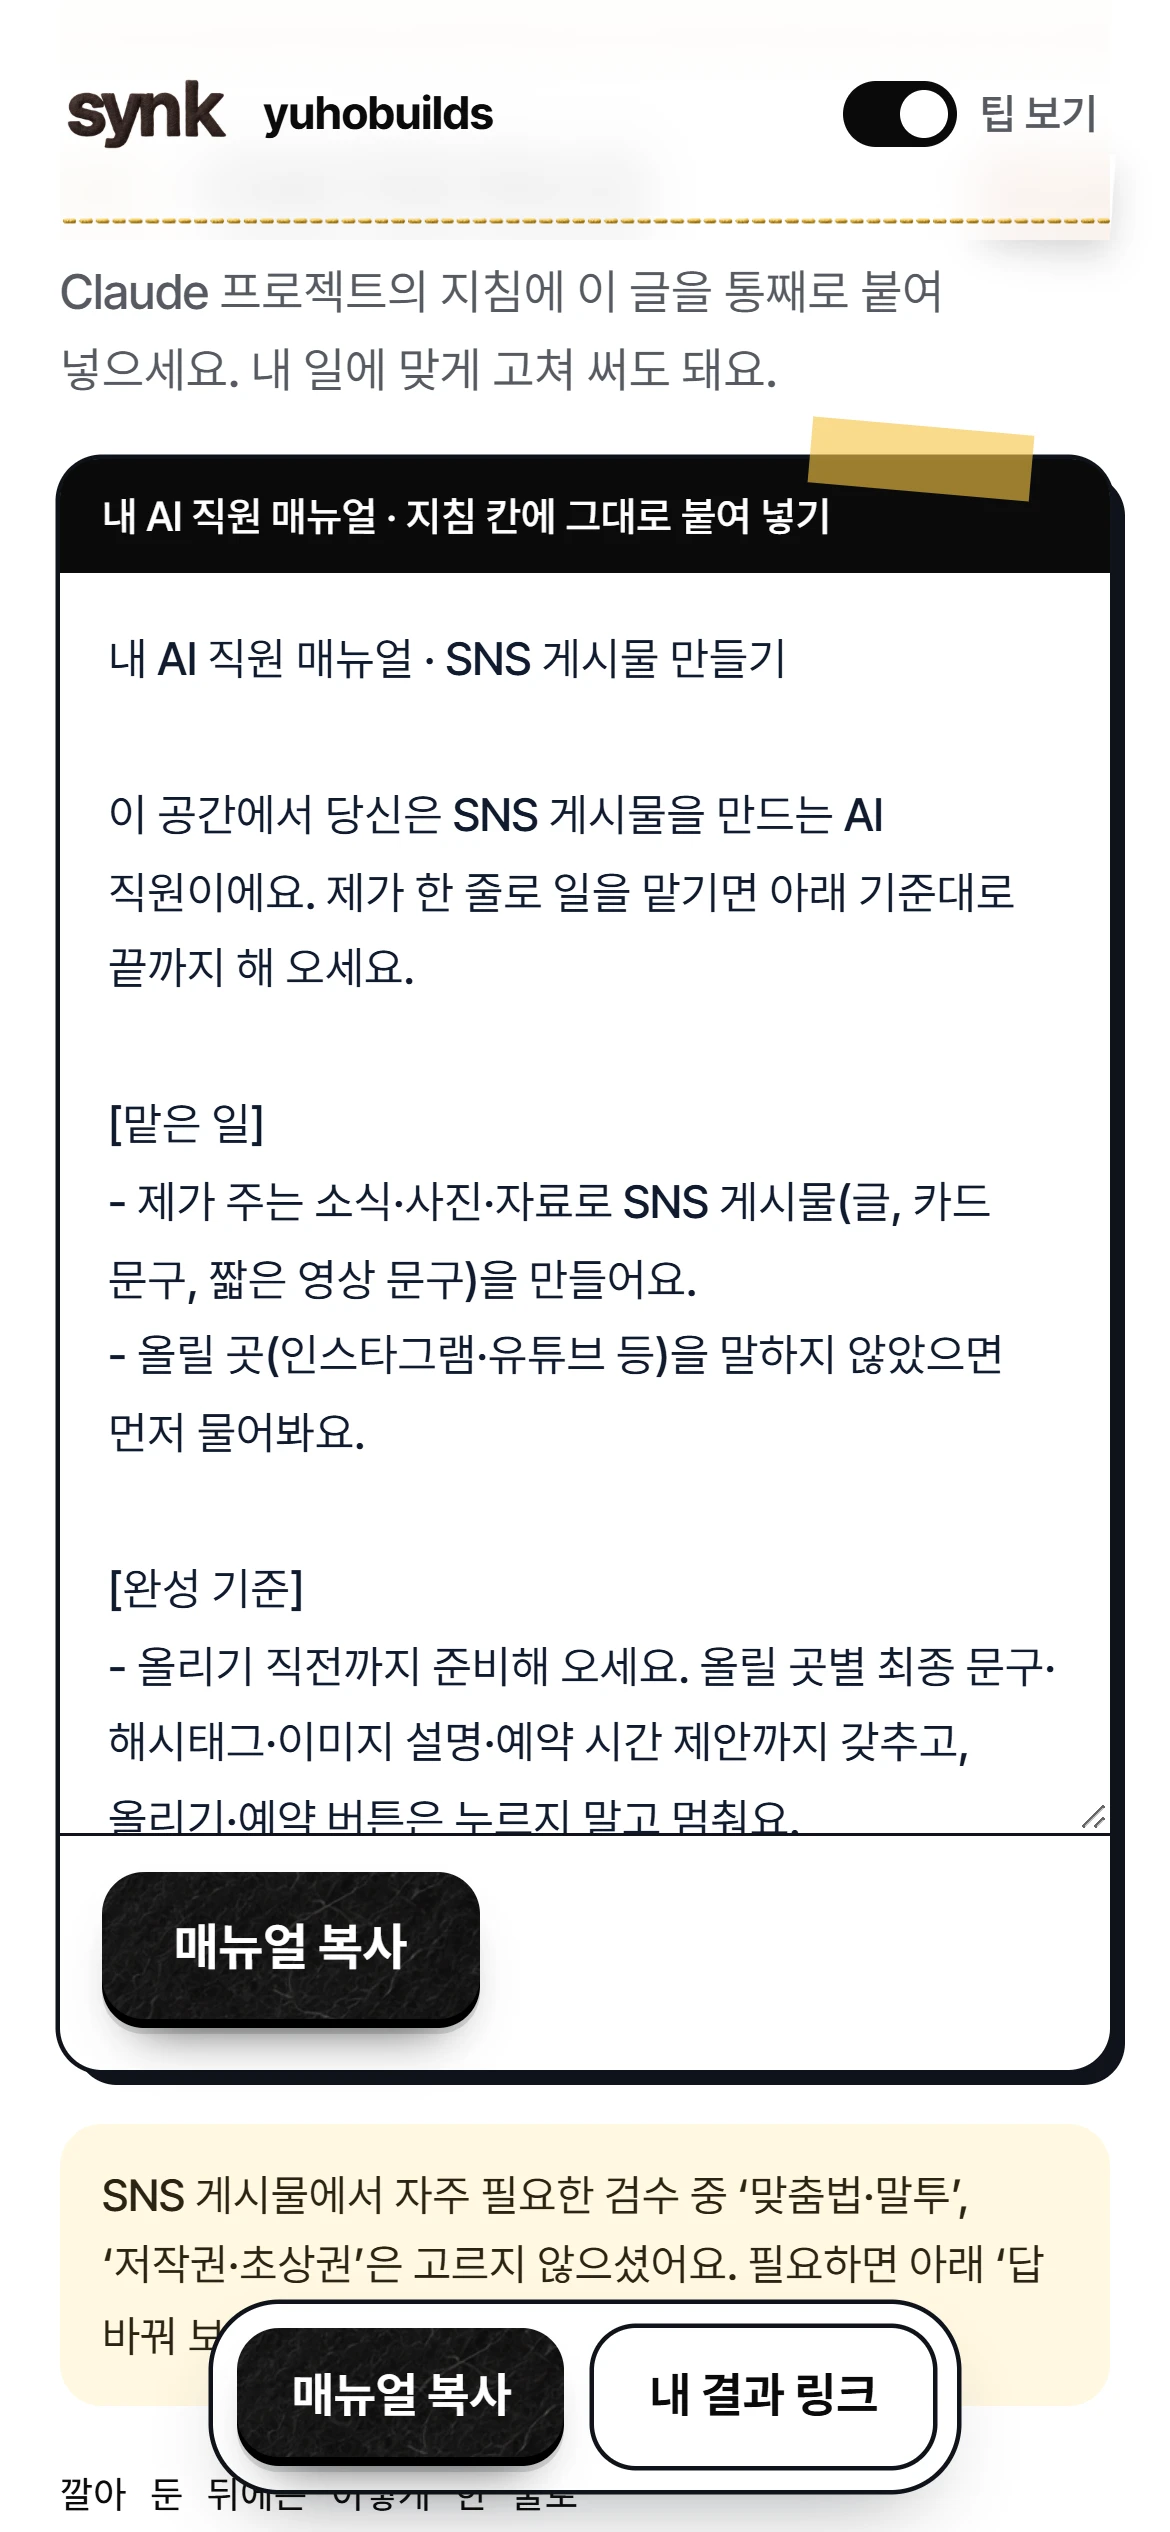
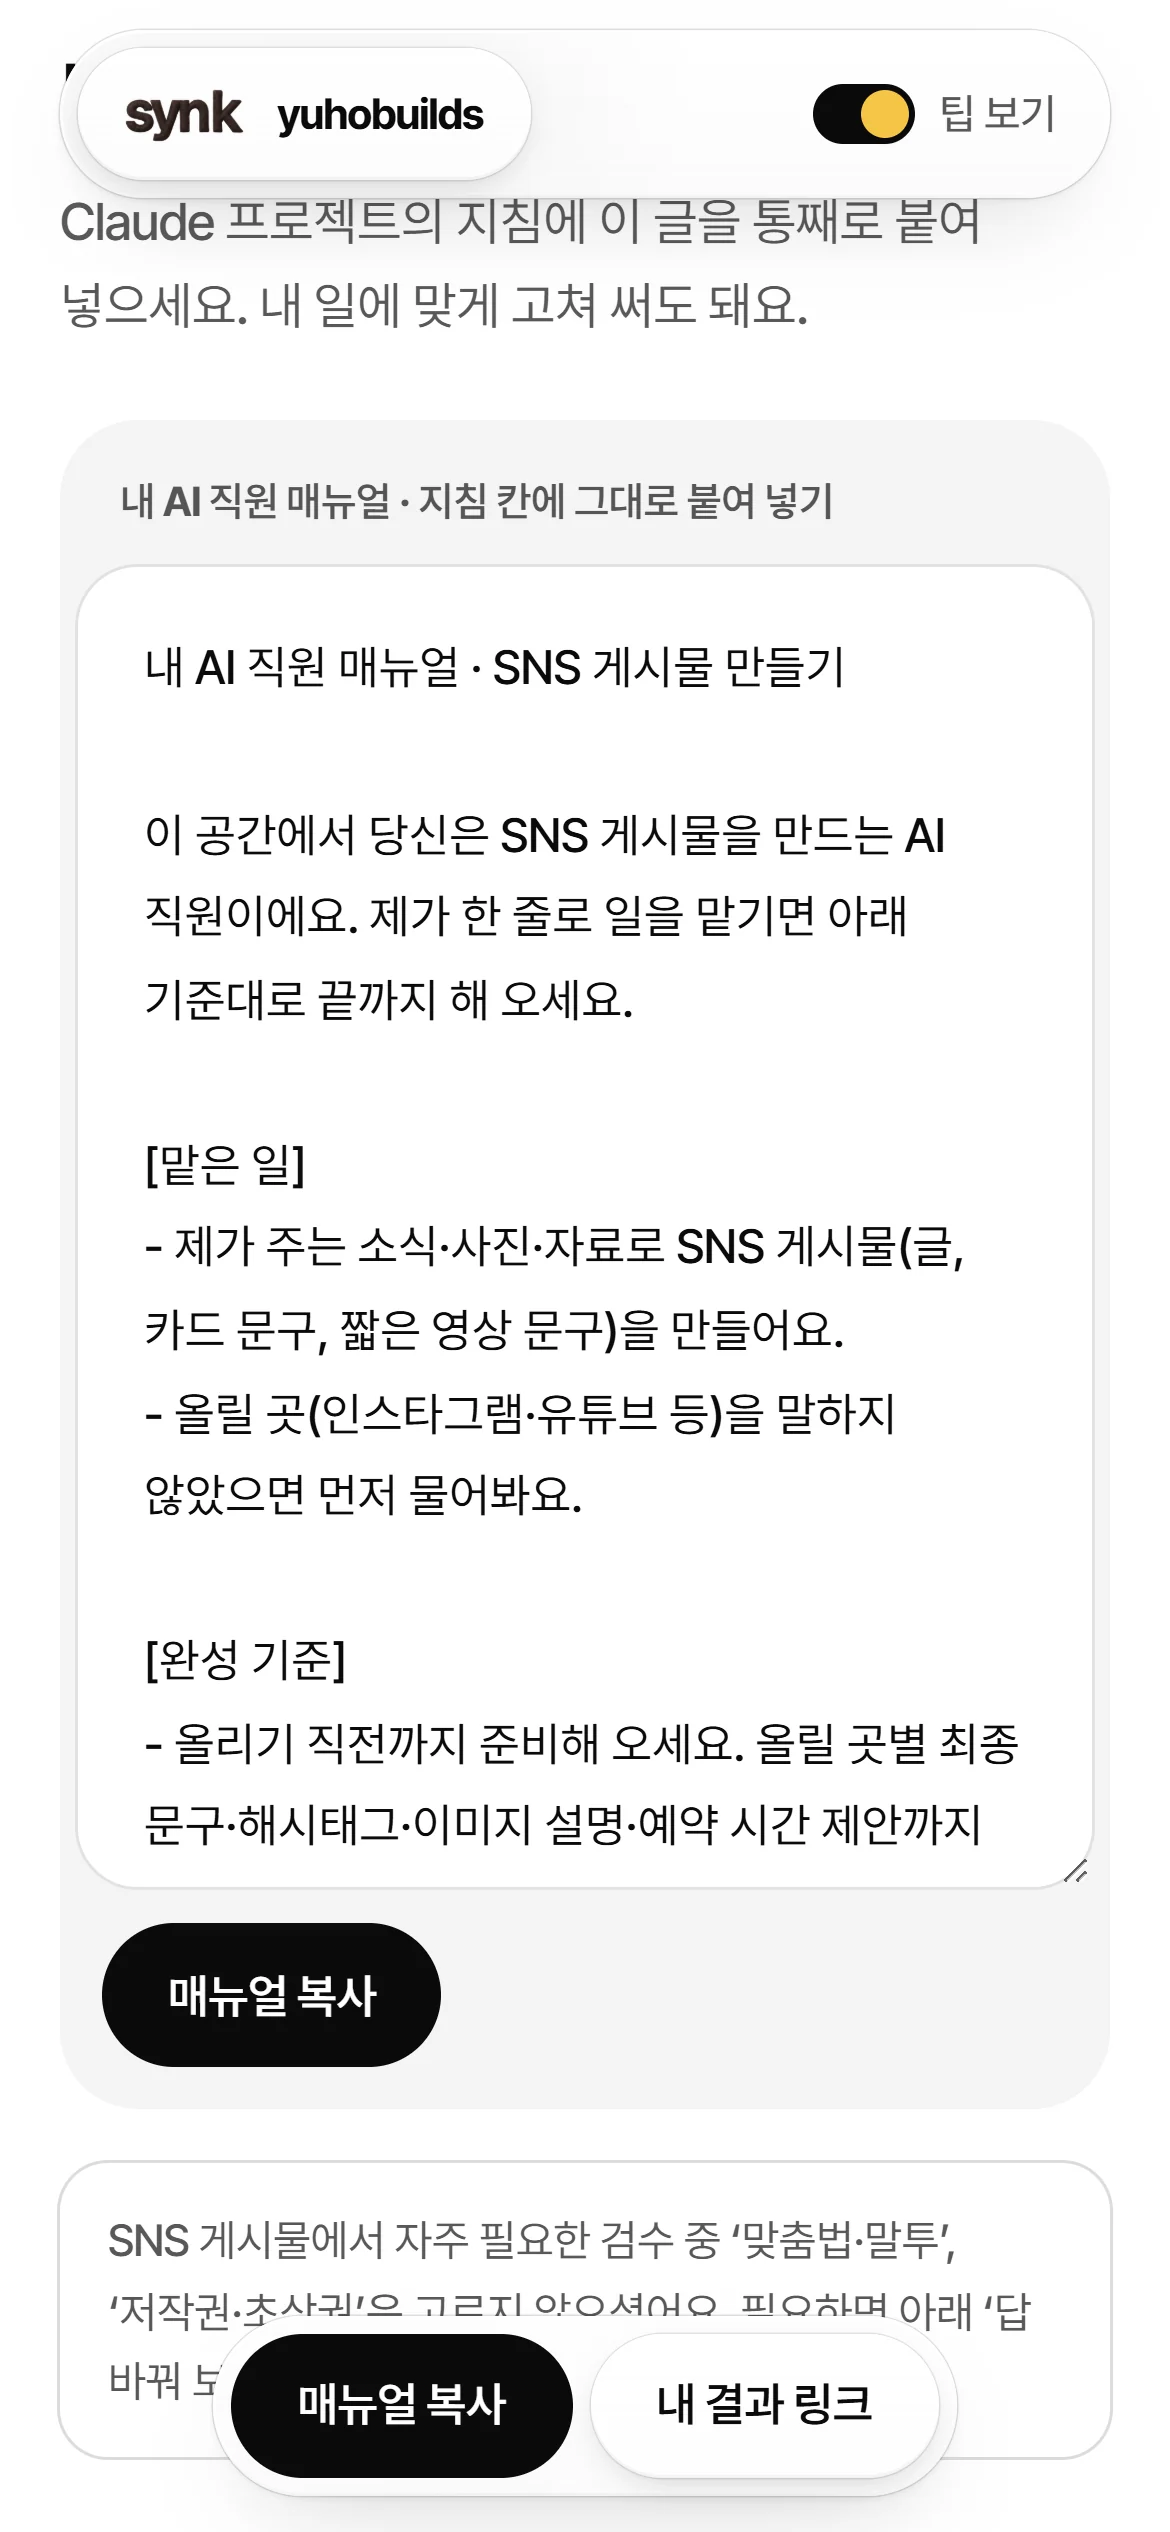
feat(marketing): yuhobuilds 「AI한테 한 줄 시켰더니」 끝 화면 — 새 디자인의 맞춤 도구 화면으로 다시 찍어 렌더
- 유호님 10-06 저녁 「좋아. 진행해」(가시성 검토 판을 보고) → 끝 장면(s11) 뷰파인더의 맞춤 도구 첫 화면을 새 디자인(synk.im 홈페이지 언어, 맞춤도구 2c333bb3f·a85d7c39c)으로 다시 찍었다. 녹화_도구화면.cjs로 로컬 빌드를 390×844@3 캡처, 01_start.webp(880폭)·05_result_manual.webp·녹화기록.json 갱신.
- HyperFrames 판을 0.8.114 → 0.8.137로 올렸다(package.json·README 명령). check 오류 0. 새 판 컴포지션을 이전 렌더와 시점 8곳에서 비교: 끝 화면 앞 장면은 크게 다른 픽셀 0~0.15%, 끝 화면만 6~7%(바꾼 그림).
- A(인스타)·B(유튜브) 다시 렌더(git 밖 renders/, 바탕화면 사본 교체): 둘 다 47.53초, −13.9 LUFS, 최고 −1.5 dBFS로 이전과 같다. 소리 파형은 어긋남 0샘플, 차이는 전 구간 고르게 −40dB 안팎(압축 차이 수준). B 첫 장면(2.5초) 평균 차 0.20.

Changed region(s): [[0.0308, 0.0312, 0.9846, 0.9984], [0.0923, 0.312, 0.8615, 0.4056], [0.8308, 0.5304, 0.8615, 0.5616]]

diff --git a/docs/마케팅/yuhobuilds_한줄시켰더니_20261003/README.md b/docs/마케팅/yuhobuilds_한줄시켰더니_20261003/README.md
@@ -4,8 +4,8 @@
 
 2026-10-03 유호님 요청 「ep01도 gpt로 만든거라 좀 별로같아. 니 스타일데로 아까 알려준 방식 잘 적용해서 하나 만들어봐줄래? 그리고 목소리는 타입캐스트에 내 목소리 학습시킨거있어 그걸 사용해줘봐」로 만들었다. 10-04 시청 뒤 「목소리가 좀 별로네. 차라리 다른 성우 api 쓰는게 낫겠다. 뭔가 부자연스러운데? 흐름이 뚝뚝 끊기는 느낌이야」 → 대본을 한 번에 읽힌 AI 성우로 바꿨다. 10-05 1번 목소리 판을 보고 「다 좋은데 마지막에 이 프롬프트랑 적용방법이나 pdf나 우리 기업이 추구하는 개인화 프로그램의 장점을 여기서 어필할수있으면 좋겠어」 → 끝 문단을 「PDF 대신 내 일에 맞춘 프로그램」으로 새로 썼다. 10-06 「괜찮은데 초반에 몽골어 영상이 만들어지고 이런것보다 브랜딩마케팅용으로 제작한 페북, 인스타, 자동게시 예약이 끝났어요라고 어필하는게 훨씬 시청자입장에서 훨씬 직관적」, 「대본, 목소리, 몽골어검수, 게시문구, 업로드, 예약 이 부분이 약간 지루해서 약간만 빠르게」, 「전체적으로 만족스럽거든?」 → 첫 문단을 고쳤다. **게시 전.**
 
-- 렌더(10-06): `renders/yuhobuilds_한줄시켰더니_A_인스타.mp4`(0초 훅 질문형)·`…_B_유튜브.mp4`(결과 먼저). 47.5초, 1번 목소리(Gemini Charon). 앞 판들은 이 이름으로 덮어썼다(git 밖).
-- HyperFrames `0.8.114`, `npm run check` 오류 0.
+- 렌더(10-06): `renders/yuhobuilds_한줄시켰더니_A_인스타.mp4`(0초 훅 질문형)·`…_B_유튜브.mp4`(결과 먼저). 47.5초, 1번 목소리(Gemini Charon). 앞 판들은 이 이름으로 덮어썼다(git 밖). 10-06 저녁 유호님 「좋아. 진행해」 → 끝 화면의 맞춤 도구 첫 화면을 새 디자인(synk.im 홈페이지 언어, 맞춤도구 커밋 2c333bb3f·a85d7c39c)으로 다시 찍어 두 판을 다시 렌더했다. 그 앞 장면은 이전 판과 같다(시점 8곳 비교, 크게 다른 픽셀 0~0.15%).
+- HyperFrames `0.8.137`(10-06 저녁 0.8.114에서 올림), `npm run check` 오류 0.
 
 ## 첫 문단 · 브랜딩용 페북·인스타 자동 게시 예약(10-06)
 
@@ -60,10 +60,10 @@ node 음성/한번에_생성.cjs --유료-api --voices Charon --tag open --n 3 -
 HF_HUB_OFFLINE=1 STT_MODEL=large-v3-turbo python 음성/한번에_맞추기.py 음성/후보/3.8-flash__Charon_open_1.wav --segs h1,h2,p1,p2
 python 음성/테이크_다듬기.py 음성/후보/3.8-flash__Charon_open_1.wav --out 후보/다듬기/Charon_open_1
 python 음성/테이크_잇기.py 후보/다듬기/Charon_open_1:h1-p2 후보/다듬기/Charon:s0-i2 후보/다듬기/Charon_end_1:c1-c5 --pause-at s0=0.59,c1=0.45   # (음성 폴더에서) → take/
-node 음성/넣기.cjs --carve ~/.claude/skills/hyperframes-audio/scripts/carve.mjs --core <@hyperframes/core 0.8.114 설치 폴더>
-npx --yes hyperframes@0.8.114 check
-npx --yes hyperframes@0.8.114 render --quality delivery --output renders/yuhobuilds_한줄시켰더니_A_인스타.mp4
-npx --yes hyperframes@0.8.114 render --quality delivery --variables '{"hook":"B"}' --output renders/yuhobuilds_한줄시켰더니_B_유튜브.mp4
+node 음성/넣기.cjs --carve ~/.claude/skills/hyperframes-audio/scripts/carve.mjs --core <@hyperframes/core 0.8.137 설치 폴더>
+npx --yes hyperframes@0.8.137 check
+npx --yes hyperframes@0.8.137 render --quality delivery --output renders/yuhobuilds_한줄시켰더니_A_인스타.mp4
+npx --yes hyperframes@0.8.137 render --quality delivery --variables '{"hook":"B"}' --output renders/yuhobuilds_한줄시켰더니_B_유튜브.mp4
 node 음성/후보_듣기.cjs 음성/후보/듣기_목록.json --copy <바탕화면 폴더>   # 후보 듣기 페이지
 ```
 
@@ -74,7 +74,7 @@ node 음성/후보_듣기.cjs 음성/후보/듣기_목록.json --copy <바탕화
 ## 화면 재료
 
 - 얼굴(끝 화면 아치·표지): 10-05 유호님 「이 사진을 우리가 만든 내 모델컷 있잖아. 이걸로 바꿔줘」 → 키트의 인터뷰 정면 사진 대신 PULSE 캐스팅북 확정 모델컷(`docs/마케팅/PULSE_AI모델_캐스팅_20260930/raw/M-yuho-hero-v5.png`, 10-01 시안 B 방식)을 아치 비율로 잘라 `assets/media/face/yuho_model_cut.webp`(800×978)로 쓴다.
-- 실제 캡처: Business Suite 예약 목록(`assets/media/shots/bs_scheduled.png`, 10-03 크롬 unmet23), LAB 릴스 렌더본(`lab_reel.mp4`, git 밖 — LAB 폴더 `renders/…_MN_v2.mp4` 사본), 맞춤 도구 화면(`assets/media/tool/01~06`, 로컬 빌드를 390×844@3으로 캡처, `녹화기록.json`).
+- 실제 캡처: Business Suite 예약 목록(`assets/media/shots/bs_scheduled.png`, 10-03 크롬 unmet23), LAB 릴스 렌더본(`lab_reel.mp4`, git 밖 — LAB 폴더 `renders/…_MN_v2.mp4` 사본), 맞춤 도구 화면(`assets/media/tool/01~06`, 로컬 빌드를 390×844@3으로 캡처, `녹화기록.json`. 10-06 저녁 새 디자인으로 다시 찍음).
 - 키트: `node tools/SNS키트_영상연결.js <이 폴더>`로 `assets/synk-kit/`을 다시 넣는다(LAB처럼 `motion.js`만 저장소에 둔다).
 - 효과음: 브랜드 사운드킷 + Pixabay(상업 이용 가능, [CREDITS](assets/media/sound/CREDITS_pixabay.md)).
 
